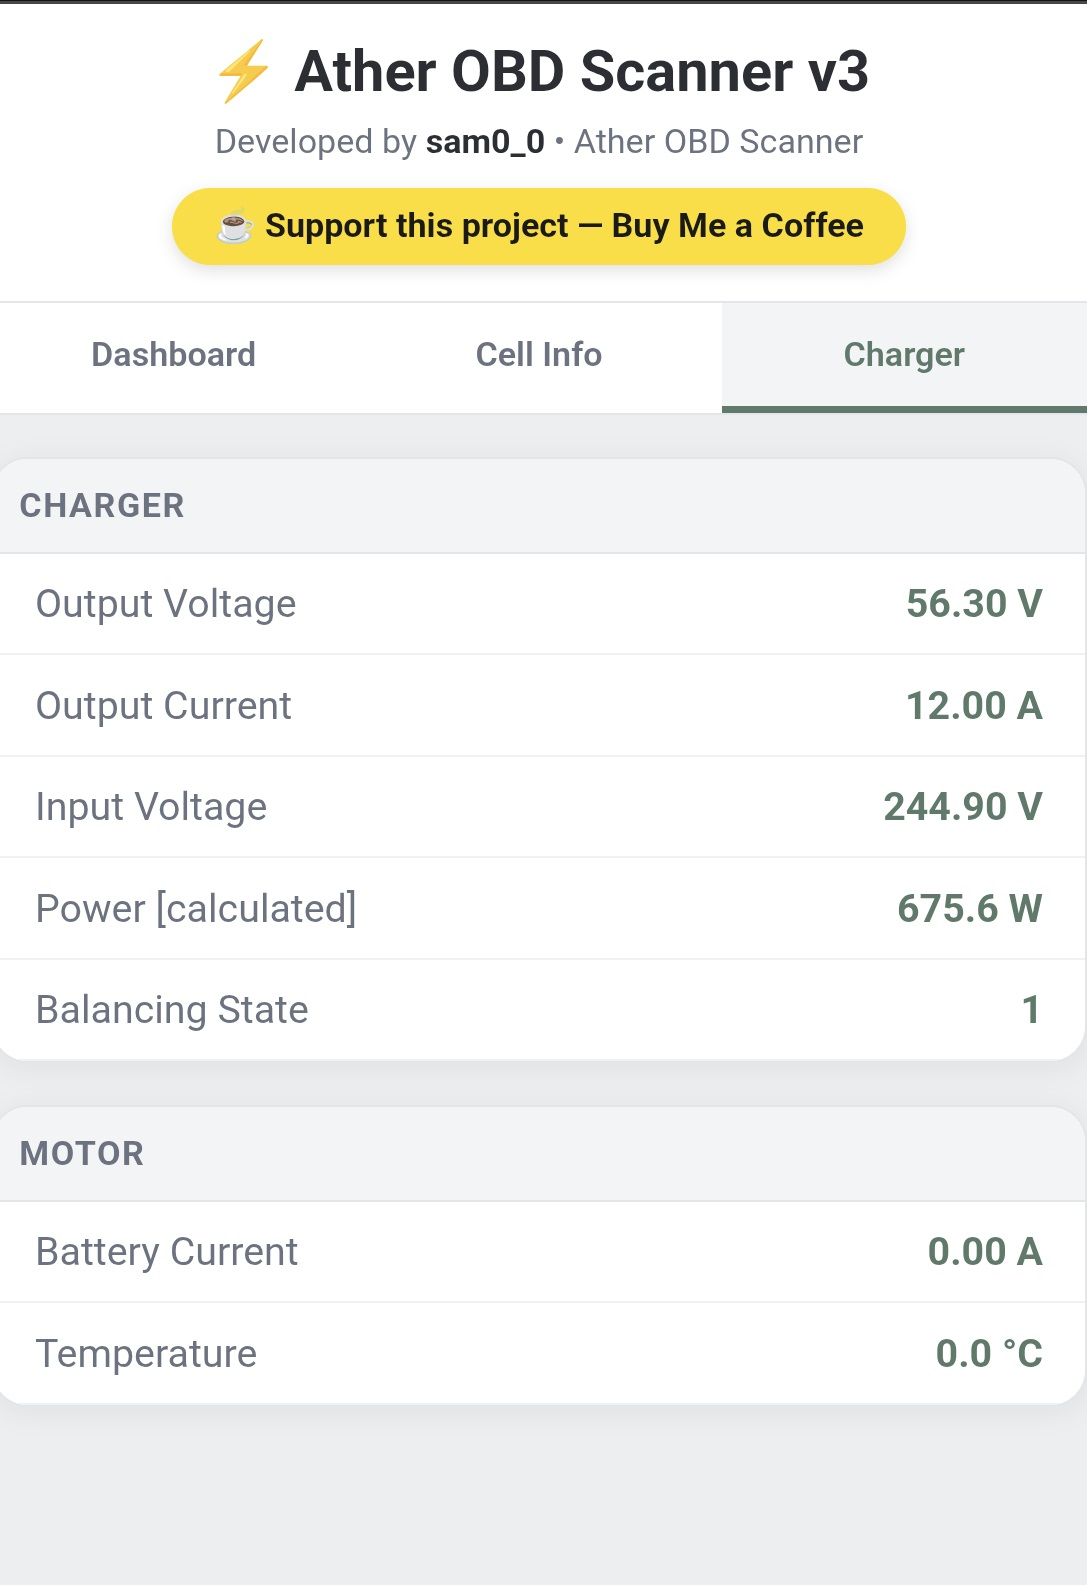
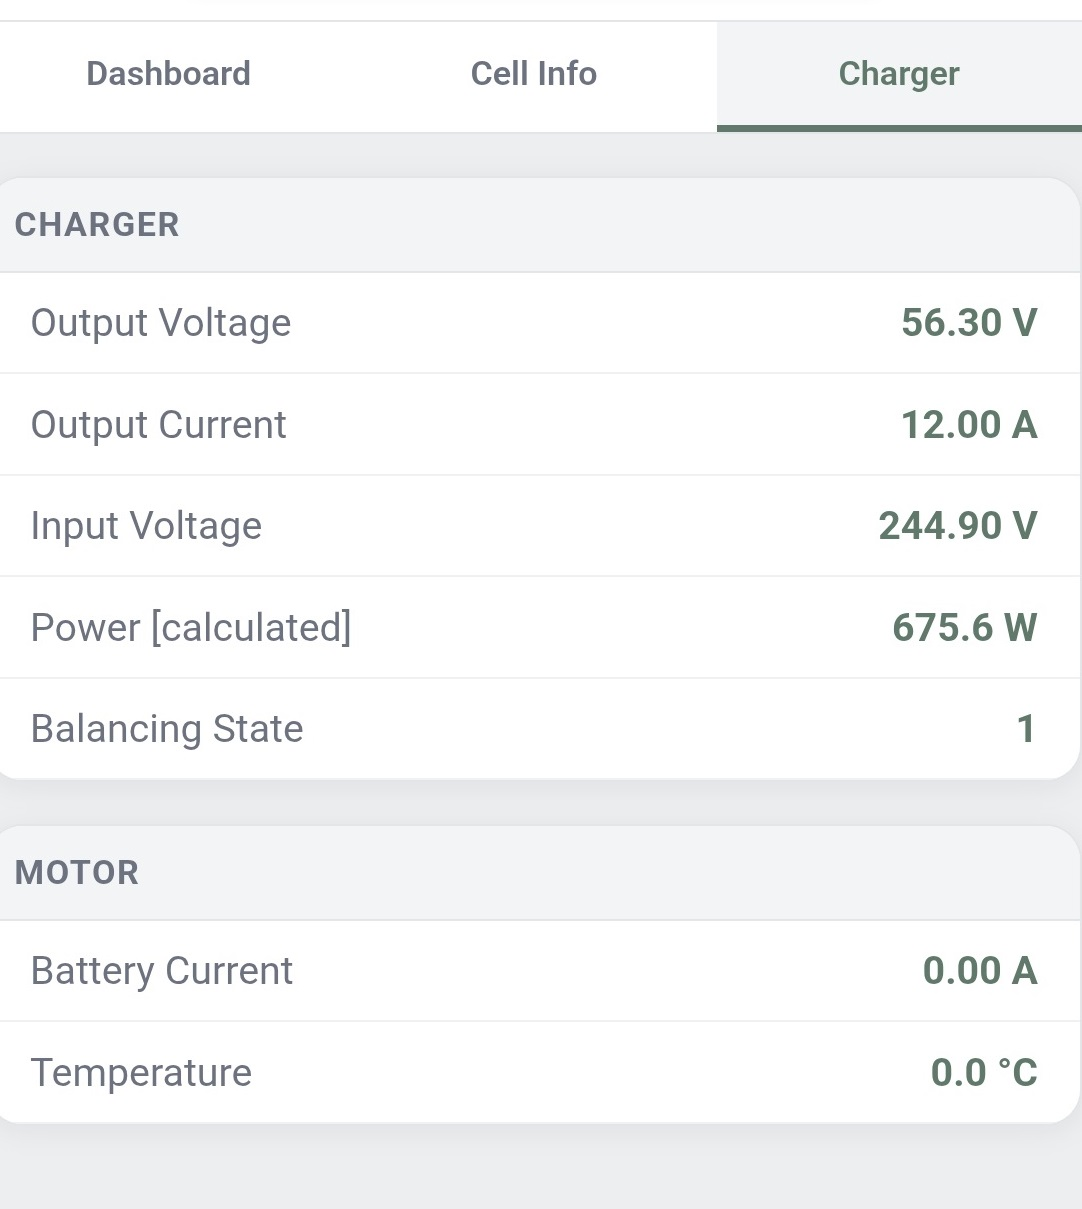
README v4: add demo5 first, update demo.jpg, add ESP32-WROOM board link

diff --git a/README.md b/README.md
@@ -1,4 +1,4 @@
-# Ather OBD & Diagnostic Reader v3
+# Ather OBD & Diagnostic Reader v4
 
 [![Star on GitHub](https://img.shields.io/badge/⭐_Star_This_Project_on_GitHub-gray?style=for-the-badge&logo=github)](https://github.com/SAM0-0/ATHER-OBD-READER)
 [![Buy Me A Coffee](https://img.shields.io/badge/Buy_Me_A_Coffee-FFDD00?style=for-the-badge&logo=buy-me-a-coffee&logoColor=black)](https://www.buymeacoffee.com/sam0_0)
@@ -13,6 +13,7 @@ If you don't want to deal with wiring, flashing, or soldering, I am building ful
 ---
 <p align="left"> <b> ** DEMO OF HOW IT LOOKS ** </b></p>
 <p align="center">
+<img src="images/demo5.jpg" alt="Ather OBD Demo" width="300" height="400" />
 <img src="images/demo.jpg" alt="Ather OBD Demo" width="300" height="400" />
    <img src="images/demo2.jpg" alt="Ather OBD Demo" width="360" height="460" />
    <img src="images/demo3.jpg" alt="Ather OBD Demo" width="300" height="400" />
@@ -27,6 +28,7 @@ If you don't want to deal with wiring, flashing, or soldering, I am building ful
 You will need the following components to build the reader. Purchasing your components through the links below helps support this open-source project at **zero extra cost to you**:
 
 * 1 × [ESP32-C3 SuperMini Development Board](https://www.flyrobo.in/esp32-c3-supermini-development-board-wifi-bluetooth-usb-c-soldered/?tracking=UwR6B669xp9SLKysVbq5gfq4L488E9TzDlFr8pJq41Ui1FcygUSdC9I0KRschPX2) **(ESP32-WROOM support coming soon)**
+* 1 × [ESP32 38-Pin Development Board (CP2102, Type-C, WiFi + Bluetooth)](https://www.flyrobo.in/esp32-38-pin-development-board-cp2102-type-c-wifi-and-bluetooth/?tracking=UwR6B669xp9SLKysVbq5gfq4L488E9TzDlFr8pJq41Ui1FcygUSdC9I0KRschPX2)
 * 1 × [SN65HVD230 CAN Bus Transceiver Module ](https://www.flyrobo.in/wcmcu-230-can-bus-module-based-on-sn65hvd230/?tracking=UwR6B669xp9SLKysVbq5gfq4L488E9TzDlFr8pJq41Ui1FcygUSdC9I0KRschPX2)
 * 4 × [Female-to-Female Jumper Wires](https://www.flyrobo.in/40pcs_10cm_female_to_female_jumper_cable_wire_for_arduino/?tracking=UwR6B669xp9SLKysVbq5gfq4L488E9TzDlFr8pJq41Ui1FcygUSdC9I0KRschPX2)
 * 2 × [Female-to-Male Jumper Wires](https://www.flyrobo.in/10cm_male_to_female_jumper_cable_wire_for_arduino/?tracking=UwR6B669xp9SLKysVbq5gfq4L488E9TzDlFr8pJq41Ui1FcygUSdC9I0KRschPX2)
